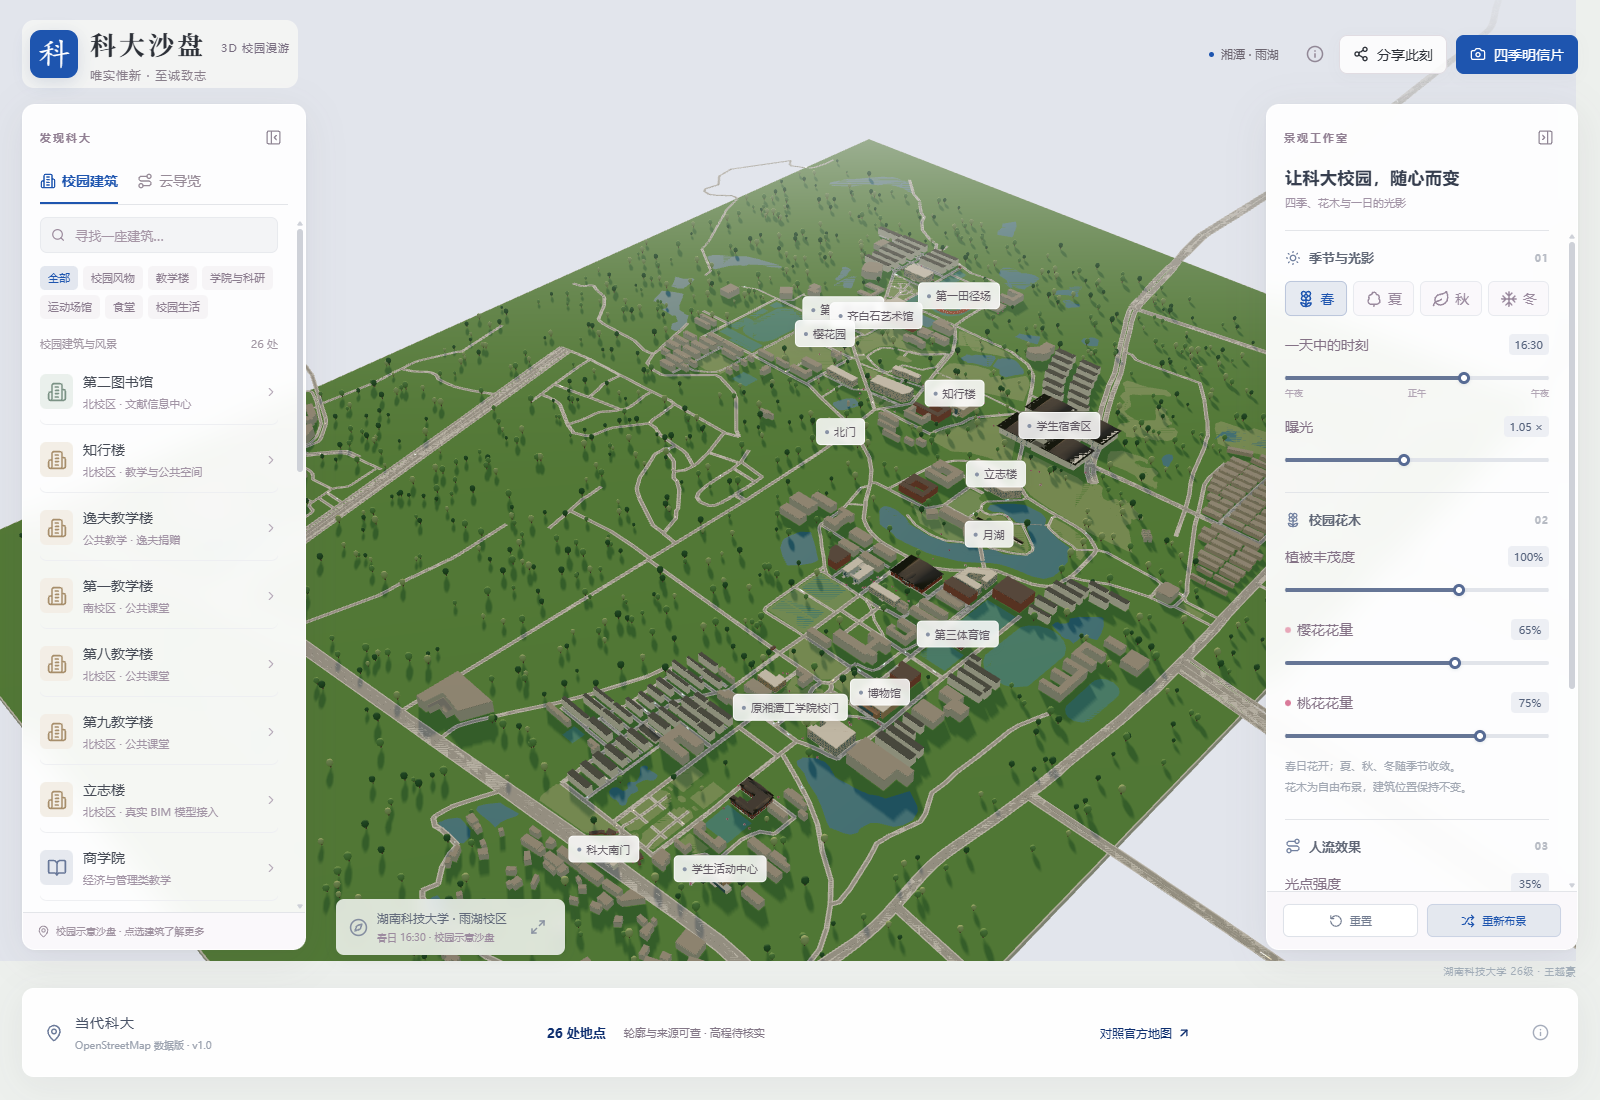
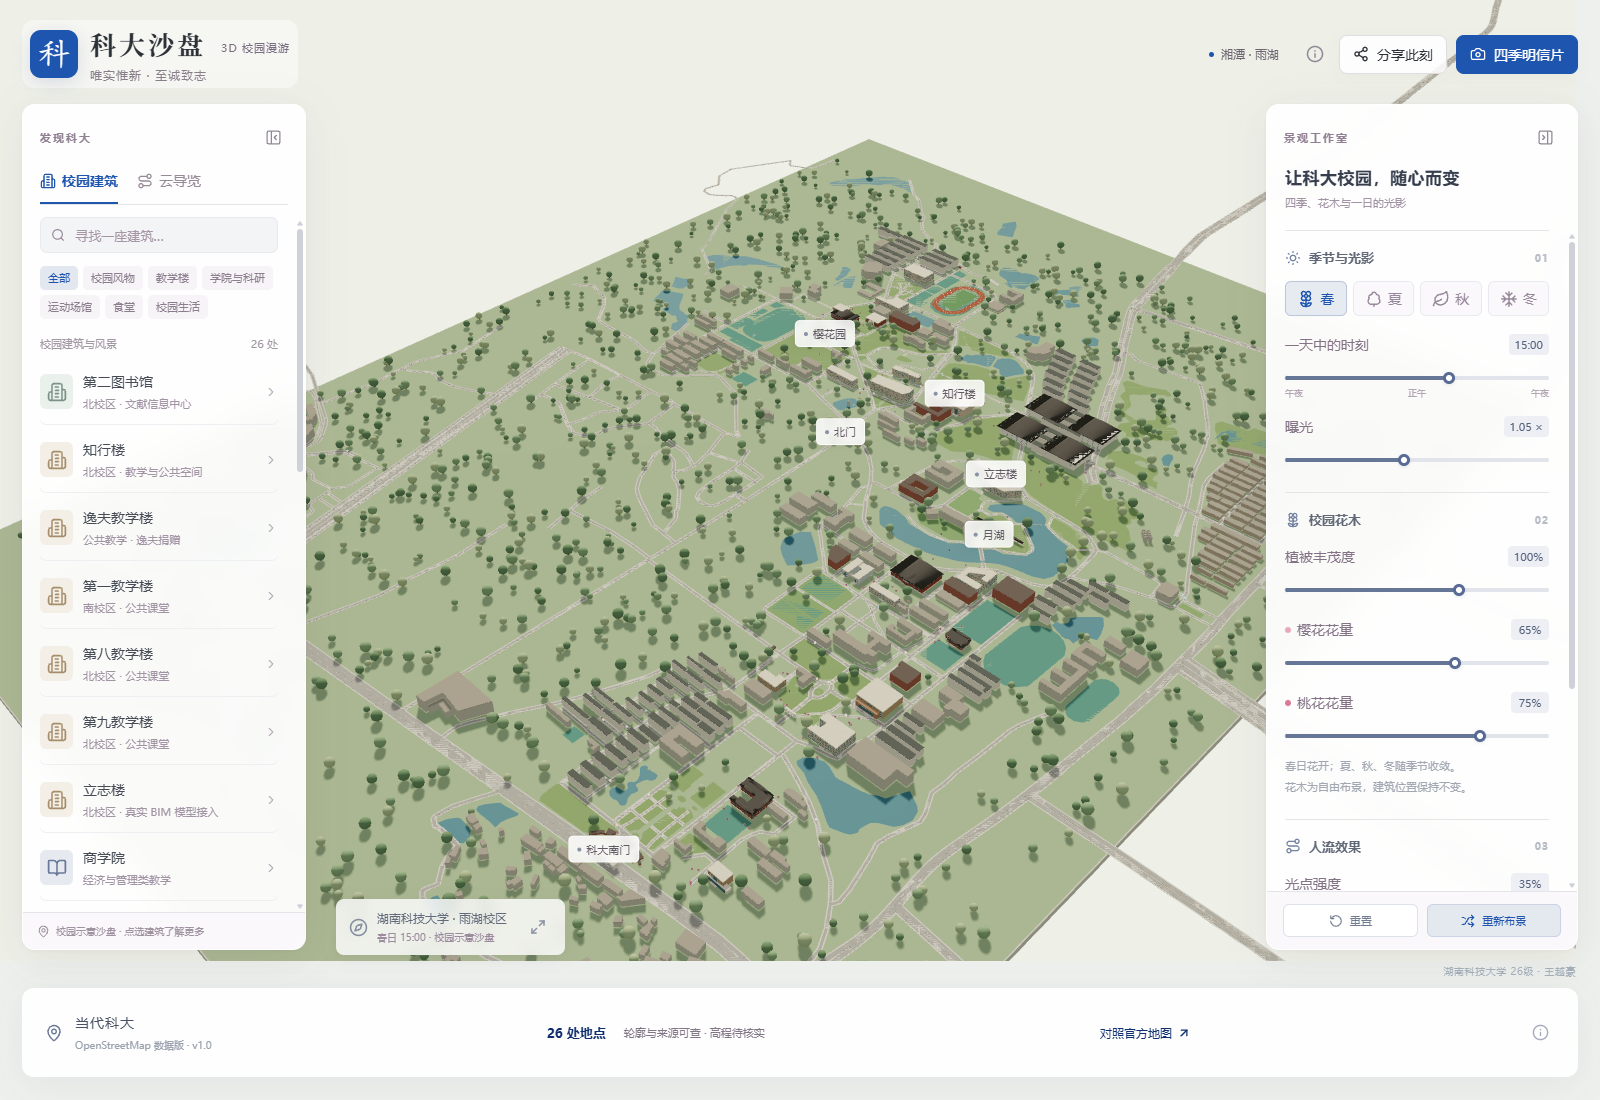
feat: 湖南科技大学 3D 校园沙盘 v1.0（基于清华园境 MIT 代码）

diff --git a/src/scene/CampusScene.tsx b/src/scene/CampusScene.tsx
@@ -10,8 +10,8 @@ import { seededRandom } from '../state';
 
 const transform=new THREE.Object3D();
 const originTarget:[number,number,number]=[0,0,0];
-const seasonal={spring:['#578353','#7eaa67','#a9c082'],summer:['#3f7350','#548858','#83a65e'],autumn:['#bd763a','#d4a44c','#8d8645'],winter:['#849b91','#a3b7ab','#c1cec7']};
-const typicalLabels=new Set(['southGate','northGate','oldGate','yuehu','sakura','library','museum','zhixing','lizhi','field1','gym','studentCenter','dorm','qibaishi']);
+const seasonal={spring:['#7c9b75','#96b38a','#b4c59a'],summer:['#5d896d','#7b9f79','#a0b58c'],autumn:['#b08a5d','#c5aa72','#a3a17b'],winter:['#a4b5ac','#bdc9bf','#d1d8ce']};
+const typicalLabels=new Set(['southGate','northGate','yuehu','sakura','zhixing','lizhi']);
 const setTransform=(mesh:THREE.InstancedMesh,i:number,x:number,y:number,z:number,sx:number,sy:number,sz:number,ry=0)=>{transform.position.set(x,y,z);transform.scale.set(sx,sy,sz);transform.rotation.set(0,ry,0);transform.updateMatrix();mesh.setMatrixAt(i,transform.matrix);};
 
 function StaticCampus({state}:{state:SceneState}){
@@ -20,7 +20,7 @@ function StaticCampus({state}:{state:SceneState}){
  const shapes=useMemo(()=>landscapes.map(l=>({...l,geometry:polygonGeometry(l.points)})),[]);
  const lines=useMemo(()=>mergedBoxes(roads.filter(r=>r.major).flatMap(r=>r.points.slice(1).flatMap((b,i)=>{const a=r.points[i],dx=b[0]-a[0],dz=b[1]-a[1],len=Math.hypot(dx,dz);return Array.from({length:Math.floor(len/28)},(_,j)=>{const t=(j+.5)*28/len;return {p:new THREE.Vector3(a[0]+dx*t,.54,a[1]+dz*t),s:new THREE.Vector3(.7,.07,10),r:Math.atan2(dx,dz)};});}))),[]);
  const history=state.era!=='today';
- const grass=state.season==='winter'?'#cdd9ca':state.season==='autumn'?'#9d9e58':'#6e9b58';
+ const grass=state.season==='winter'?'#dee3d8':state.season==='autumn'?'#c6c5a3':'#a9bf97';
  return <group>
   <mesh receiveShadow position={[0,-8,0]}><boxGeometry args={[2400,15,3300]}/><meshStandardMaterial color="#dad9ca" roughness={.95}/></mesh>
   <mesh receiveShadow position={[0,.01,0]} rotation={[-Math.PI/2,0,0]}><planeGeometry args={[2395,3295]}/><meshStandardMaterial color={grass} roughness={1}/></mesh>
@@ -38,7 +38,7 @@ function Trees({state}:{state:SceneState}){
  const data=useMemo(()=>createTrees(state.seed,buildings,landmarks,landscapes,roads),[state.seed]);
  const count=Math.min(data.length,Math.round(data.length*state.trees/150));
  const {invalidate}=useThree();
- useEffect(()=>{if(!trunk.current||!crown.current)return;const palette=seasonal[state.season];data.forEach((p,i)=>{setTransform(trunk.current!,i,p.x,3.9*p.scale,p.z,1.25*p.scale,7.3*p.scale,1.25*p.scale);setTransform(crown.current!,i,p.x,11.2*p.scale,p.z,5.5*p.scale,7*p.scale,5.5*p.scale);crown.current!.setColorAt(i,new THREE.Color(palette[Math.floor(p.shade*3)]));});trunk.current.instanceMatrix.needsUpdate=true;crown.current.instanceMatrix.needsUpdate=true;if(crown.current.instanceColor)crown.current.instanceColor.needsUpdate=true;invalidate();},[data,state.season,invalidate]);
+ useEffect(()=>{if(!trunk.current||!crown.current)return;const palette=seasonal[state.season];data.forEach((p,i)=>{setTransform(trunk.current!,i,p.x,3.9*p.scale,p.z,1.25*p.scale,7.3*p.scale,1.25*p.scale);setTransform(crown.current!,i,p.x,12*p.scale,p.z,9*p.scale,9*p.scale,9*p.scale);crown.current!.setColorAt(i,new THREE.Color(palette[Math.floor(p.shade*3)]));});trunk.current.instanceMatrix.needsUpdate=true;crown.current.instanceMatrix.needsUpdate=true;if(crown.current.instanceColor)crown.current.instanceColor.needsUpdate=true;invalidate();},[data,state.season,invalidate]);
  useEffect(()=>{if(trunk.current&&crown.current){trunk.current.count=count;crown.current.count=count;invalidate();}},[count,invalidate]);
  return <group><instancedMesh ref={trunk} args={[undefined,undefined,1750]} castShadow><cylinderGeometry args={[.7,1,1,5]}/><meshStandardMaterial color="#887260" roughness={1}/></instancedMesh><instancedMesh ref={crown} args={[undefined,undefined,1750]} castShadow><icosahedronGeometry args={[1,1]}/><meshStandardMaterial roughness={1}/></instancedMesh></group>;
 }
@@ -74,80 +74,40 @@ function Lighting({state}:{state:SceneState}){
  useEffect(()=>{gl.toneMappingExposure=state.exposure;invalidate();},[gl,state.exposure,invalidate]);
  const sun=useRef<THREE.DirectionalLight>(null);
  useEffect(()=>{if(sun.current){const c=sun.current.shadow.camera;c.left=-1500;c.right=1500;c.top=1500;c.bottom=-1500;c.near=10;c.far=4500;c.updateProjectionMatrix();}},[]);
- return <><color attach="background" args={[night?'#253549':daylight<.4?'#e2e5ec':'#e4edf0']}/><fog attach="fog" args={[night?'#253549':daylight<.4?'#e2e5ec':'#e4edf0',3400,6700]}/><ambientLight intensity={night?.55:.35} color={night?'#9aaed7':'#fff4e5'}/><hemisphereLight args={[night?'#8a99c0':'#e6f3ff','#769858',night?.45:.8]}/><directionalLight ref={sun} position={[Math.cos(angle)*1900,Math.max(220,daylight*2200),-1200]} intensity={night?.18:daylight<.4?1.6:2} color={daylight<.4?'#ffdeb0':'#fff0d7'} castShadow={state.quality!=='low'} shadow-mapSize={[2048,2048]} shadow-bias={-.0003} shadow-normalBias={1.4}/></>;
+ return <><color attach="background" args={[night?'#293c4c':daylight<.4?'#ece5db':'#eef0e8']}/><fog attach="fog" args={[night?'#293c4c':daylight<.4?'#ece5db':'#eef0e8',6500,13000]}/><ambientLight intensity={night?.55:.45} color={night?'#9aaed7':'#fff9ee'}/><hemisphereLight args={[night?'#8a99c0':'#f1f6fa','#b1b9a2',night?.45:.7]}/><directionalLight ref={sun} position={[Math.cos(angle)*1900,Math.max(220,daylight*2200),-1200]} intensity={night?.18:daylight<.4?1.6:2} color={daylight<.4?'#ffe3be':'#fff4df'} castShadow={state.quality!=='low'} shadow-mapSize={[2048,2048]} shadow-bias={-.0003} shadow-normalBias={1.4}/></>;
 }
 
 
 function CrowdFlow({activity}:{activity:number}){
- const points=useRef<THREE.Points>(null),halo=useRef<THREE.Points>(null),trail=useRef<THREE.LineSegments>(null);
+ const dots=useRef<THREE.InstancedMesh>(null);
  const {invalidate}=useThree();
  const MAX=320;
- const palette=['#f6c46a','#6fb6f0','#9fe3d0','#ffe1b0'];
- const agents=useMemo(()=>{const rnd=seededRandom(20261023);const pool=roads.filter(r=>r.points.length>1);const out:{ax:number;az:number;bx:number;bz:number;off:number;speed:number;dir:number;color:string}[]=[];for(let n=0;n<1200&&out.length<MAX;n++){const road=pool[Math.floor(rnd()*pool.length)];if(!road||road.points.length<2)continue;const i=Math.floor(rnd()*(road.points.length-1));const a=road.points[i],b=road.points[i+1];const len=Math.hypot(b[0]-a[0],b[1]-a[1]);if(len<6)continue;out.push({ax:a[0],az:a[1],bx:b[0],bz:b[1],off:rnd(),speed:.006+rnd()*.016,dir:rnd()>.5?1:-1,color:palette[out.length%palette.length]});}return out;},[]);
- const count=Math.min(agents.length,Math.max(0,Math.round(activity*3.6)));
- const pos=useMemo(()=>new Float32Array(MAX*3),[]);
- const col=useMemo(()=>new Float32Array(MAX*3),[]);
- const tpos=useMemo(()=>new Float32Array(MAX*6),[]);
- const tcol=useMemo(()=>new Float32Array(MAX*6),[]);
- const sprite=useMemo(()=>{const c=document.createElement('canvas');c.width=c.height=128;const ctx=c.getContext('2d')!;const grad=ctx.createRadialGradient(64,64,0,64,64,64);grad.addColorStop(0,'rgba(255,255,255,1)');grad.addColorStop(.22,'rgba(255,255,255,.9)');grad.addColorStop(.55,'rgba(255,255,255,.22)');grad.addColorStop(1,'rgba(255,255,255,0)');ctx.fillStyle=grad;ctx.fillRect(0,0,128,128);const tex=new THREE.CanvasTexture(c);tex.colorSpace=THREE.SRGBColorSpace;return tex;},[]);
+ const palette=['#ffd9a0','#9fd8e6','#b7e3c8','#fff1d6'];
+ const agents=useMemo(()=>{const rnd=seededRandom(20261023);const pool=roads.filter(r=>r.points.length>1);const out:{ax:number;az:number;bx:number;bz:number;off:number;speed:number;dir:number;color:string;size:number}[]=[];for(let n=0;n<1200&&out.length<MAX;n++){const road=pool[Math.floor(rnd()*pool.length)];if(!road||road.points.length<2)continue;const i=Math.floor(rnd()*(road.points.length-1));const a=road.points[i],b=road.points[i+1];const len=Math.hypot(b[0]-a[0],b[1]-a[1]);if(len<6)continue;out.push({ax:a[0],az:a[1],bx:b[0],bz:b[1],off:rnd(),speed:.006+rnd()*.016,dir:rnd()>.5?1:-1,color:palette[out.length%palette.length],size:2.2+rnd()*1.0});}return out;},[]);
+ const count=Math.min(agents.length,Math.max(0,Math.round(activity*2.2)));
  useEffect(()=>{
-  if(points.current)points.current.geometry.setDrawRange(0,count);
-  if(halo.current)halo.current.geometry.setDrawRange(0,count);
-  if(trail.current)trail.current.geometry.setDrawRange(0,count*2);
-  agents.slice(0,count).forEach((a,i)=>{const c=new THREE.Color(a.color);col[i*3]=c.r;col[i*3+1]=c.g;col[i*3+2]=c.b;});
-  const ca=points.current?.geometry.attributes.color;if(ca)ca.needsUpdate=true;
+  if(dots.current){dots.current.count=count;agents.slice(0,count).forEach((a,i)=>dots.current!.setColorAt(i,new THREE.Color(a.color)));if(dots.current.instanceColor)dots.current.instanceColor.needsUpdate=true;}
   invalidate();
- },[count,agents,col,invalidate]);
+ },[count,agents,invalidate]);
  useFrame(({clock})=>{
-  if(!points.current||!trail.current||!count)return;
+  if(!dots.current||!count)return;
   const t=clock.elapsedTime;
-  const ha=halo.current?.geometry.attributes.position as THREE.BufferAttribute|undefined;
-  const hc=halo.current?.geometry.attributes.color as THREE.BufferAttribute|undefined;
-  const pa=points.current.geometry.attributes.position as THREE.BufferAttribute;
-  const ca=points.current.geometry.attributes.color as THREE.BufferAttribute;
-  const ta=trail.current.geometry.attributes.position as THREE.BufferAttribute;
-  const tca=trail.current.geometry.attributes.color as THREE.BufferAttribute;
-  const pArr=pa.array as Float32Array,pCol=ca.array as Float32Array,tArr=ta.array as Float32Array,tCol=tca.array as Float32Array;
   for(let i=0;i<count;i++){
    const a=agents[i];
    const u=((a.off+t*a.speed*a.dir)%1+1)%1;
    const x=a.ax+(a.bx-a.ax)*u, z=a.az+(a.bz-a.az)*u;
-   const ut=Math.max(0,Math.min(1,u-a.dir*.1));
-   const xt=a.ax+(a.bx-a.ax)*ut, zt=a.az+(a.bz-a.az)*ut;
-   const bob=Math.sin(t*1.6+a.off*18)*.16;
-   pArr[i*3]=x;pArr[i*3+1]=2.8+bob;pArr[i*3+2]=z;
-   pCol[i*3]=pCol[i*3]; // static, but keep for clarity
-   tArr[i*6]=xt;tArr[i*6+1]=2.45;tArr[i*6+2]=zt;
-   tArr[i*6+3]=x;tArr[i*6+4]=2.8+bob;tArr[i*6+5]=z;
-   const c=new THREE.Color(a.color);
-   tCol[i*6]=c.r*.12;tCol[i*6+1]=c.g*.12;tCol[i*6+2]=c.b*.12;
-   tCol[i*6+3]=c.r*.95;tCol[i*6+4]=c.g*.95;tCol[i*6+5]=c.b*.95;
+   const bob=Math.sin(t*1.7+a.off*18)*.22;
+   const s=a.size*(1+Math.sin(t*2.3+a.off*9)*.08);
+   setTransform(dots.current,i,x,2.9+bob,z,s,s,s);
   }
-  pa.needsUpdate=true;ca.needsUpdate=true;ta.needsUpdate=true;tca.needsUpdate=true;if(ha)ha.needsUpdate=true;if(hc)hc.needsUpdate=true;
+  dots.current.instanceMatrix.needsUpdate=true;
   invalidate();
  });
  return <group>
-  <points ref={halo} frustumCulled={false}>
-   <bufferGeometry>
-    <bufferAttribute attach="attributes-position" args={[pos,3]}/>
-    <bufferAttribute attach="attributes-color" args={[col,3]}/>
-   </bufferGeometry>
-   <pointsMaterial map={sprite} vertexColors size={16} sizeAttenuation transparent opacity={.22} depthWrite={false} blending={THREE.AdditiveBlending}/>
-  </points>
-  <points ref={points} frustumCulled={false}>
-   <bufferGeometry>
-    <bufferAttribute attach="attributes-position" args={[pos,3]}/>
-    <bufferAttribute attach="attributes-color" args={[col,3]}/>
-   </bufferGeometry>
-   <pointsMaterial map={sprite} vertexColors size={5.0} sizeAttenuation transparent opacity={.95} depthWrite={false} blending={THREE.AdditiveBlending}/>
-  </points>
-  <lineSegments ref={trail} frustumCulled={false}>
-   <bufferGeometry>
-    <bufferAttribute attach="attributes-position" args={[tpos,3]}/>
-    <bufferAttribute attach="attributes-color" args={[tcol,3]}/>
-   </bufferGeometry>
-   <lineBasicMaterial vertexColors transparent opacity={.62} blending={THREE.AdditiveBlending} depthWrite={false}/>
-  </lineSegments>
+  <instancedMesh ref={dots} args={[undefined,undefined,MAX]} frustumCulled={false}>
+   <sphereGeometry args={[1,8,6]}/>
+   <meshBasicMaterial transparent opacity={.85} depthWrite={false}/>
+  </instancedMesh>
  </group>;
 }
 

diff --git a/src/state.ts b/src/state.ts
@@ -1,5 +1,5 @@
 import type { SceneState, Vec3 } from './types.ts';
-export const defaults: SceneState = {version:2,season:'spring',time:16.5,trees:100,lilac:65,cercis:75,activity:35,exposure:1.05,quality:'auto',seed:1911,era:'today',labels:true,selected:null,view:'isometric'};
+export const defaults: SceneState = {version:2,season:'spring',time:15,trees:100,lilac:65,cercis:75,activity:35,exposure:1.05,quality:'auto',seed:1911,era:'today',labels:true,selected:null,view:'isometric'};
 const bounded=(v:unknown,min:number,max:number,fallback:number)=>typeof v==='number'&&Number.isFinite(v)?Math.max(min,Math.min(max,v)):fallback;
 const tuple=(v:unknown):v is Vec3=>Array.isArray(v)&&v.length===3&&v.every(n=>typeof n==='number'&&Number.isFinite(n)&&Math.abs(n)<20000);
 export function sanitizeState(input:unknown):SceneState {

diff --git a/CHANGELOG.md b/CHANGELOG.md
@@ -1,5 +1,12 @@
 # 版本记录
 
+## v1.2.1 · 柔光人流与收紧的视觉
+
+- 参考 `E:\project\unityVR\hnust-campus-3d\docs\UI-REFINEMENT.md`（GPT 方案）调整场景：
+  暖白纸感背景、灰绿植被、湖蓝水面、扩大树冠、下午三点光照、远景只保留主要地标。
+- 人流改为柔光光点：暖金/浅蓝/薄荷色，大小随机并轻微浮动；去掉硬边与拖尾，更克制。
+- 默认时间改为 15:00；立志楼 BIM 查看器不变。
+
 ## v1.2.0 · 人流效果 + 立志楼数字孪生
 
 - 新增人流流动层：光点沿 OSM 道路移动，带发光拖尾，受「人流效果 → 光点强度」滑杆控制；纯视觉，不含统计分析。

diff --git a/README.md b/README.md
@@ -52,8 +52,9 @@
 
 ### 人流效果
 
-- 在道路网络上叠加**径向柔光粒子 + 渐隐拖尾**：金/蓝/薄荷色，径向渐变贴图让光点边缘自然消散，不会出现硬边色块。
+- 在道路网络上叠加**柔光光点**：暖金/浅蓝/薄荷色，大小随机、轻微浮动，像沿路流动的灯火。
 - 由右侧「人流效果 → 光点强度」滑杆控制密度；纯视觉氛围，不做人流统计或分析，也没有行人/自行车模型。
+- 场景配色参考 `lizhiunity` 中 GPT 的 UI-REFINEMENT 方案：暖白纸感、灰绿植被、湖蓝水面、扩大树冠、下午三点光照，远景只保留主要地标标签。
 
 ### 立志楼数字孪生
 
